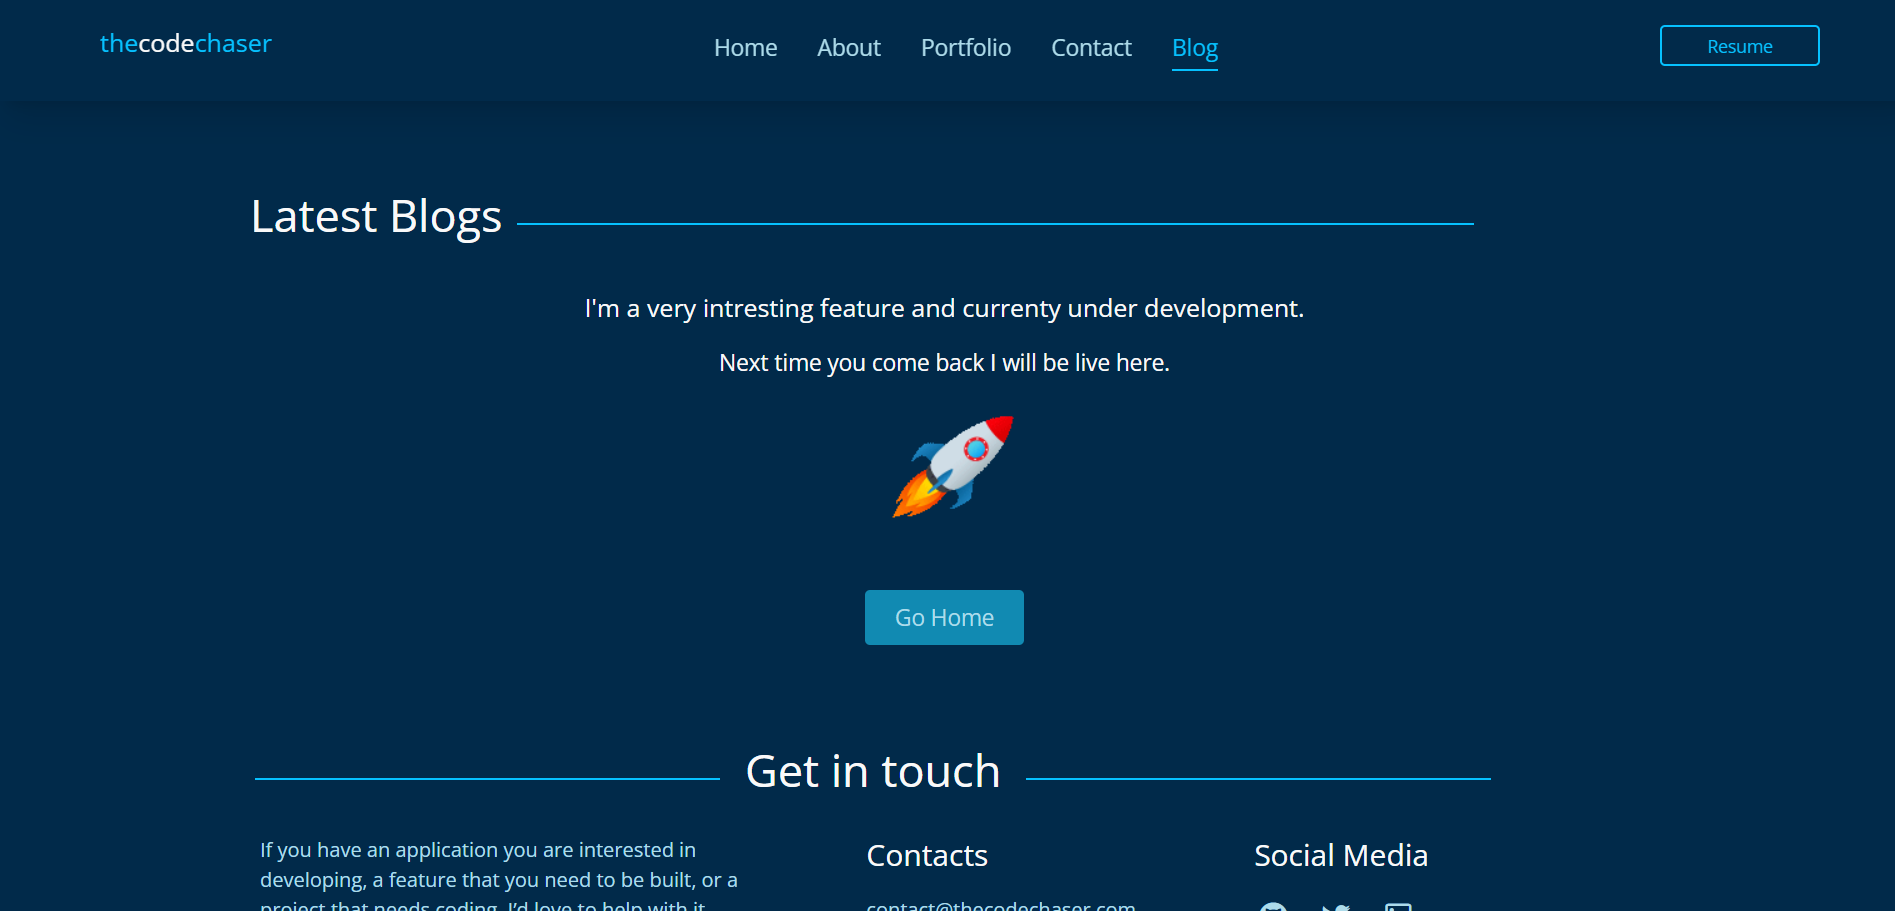
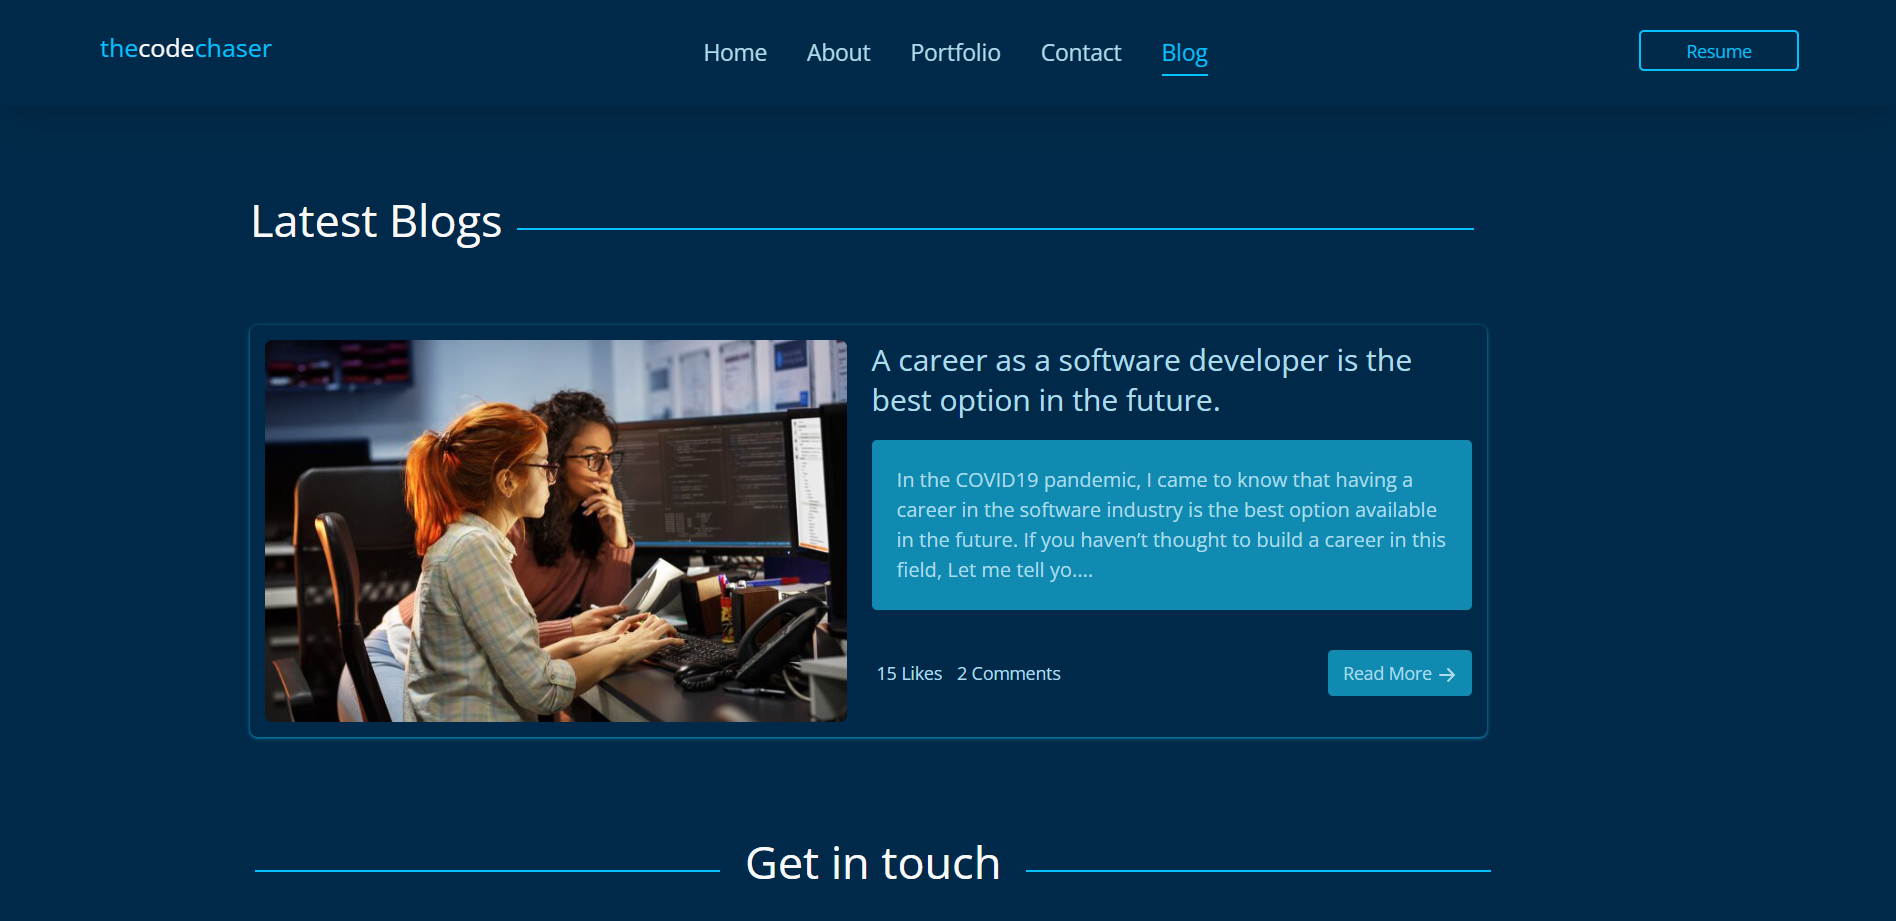
Update README file

diff --git a/README.md b/README.md
@@ -2,11 +2,11 @@
 
 # Portfolio Frontend
 
-> Portfolio Frontend is a React application for my Portfolio website. It gives a brief description of myself and showcases some of my works and my past experiences.
+> Portfolio Frontend is a React application for my Portfolio website. It gives a brief description of myself and showcases some of my works and my past experiences. It also shows my publications where users can drop likes and comments.
 
 ## Link to the backend
 
-[Portfolio Backend]()
+[Portfolio Backend](https://github.com/thecodechaser/portfolio-backend)
 
 ## Preview:
 
